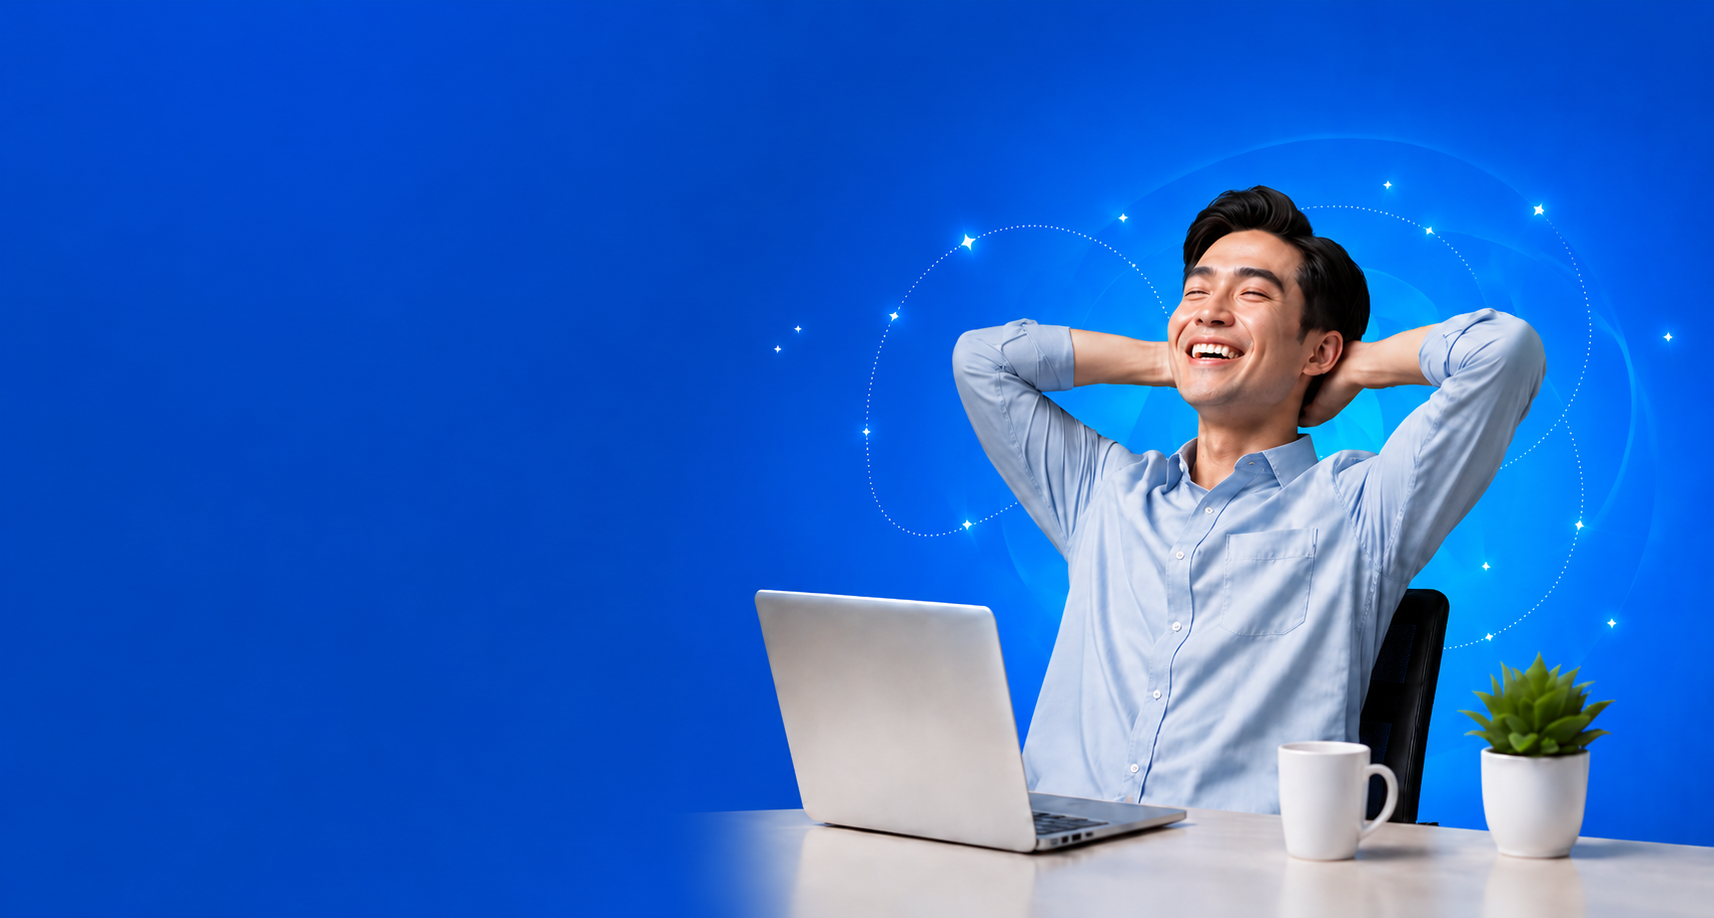
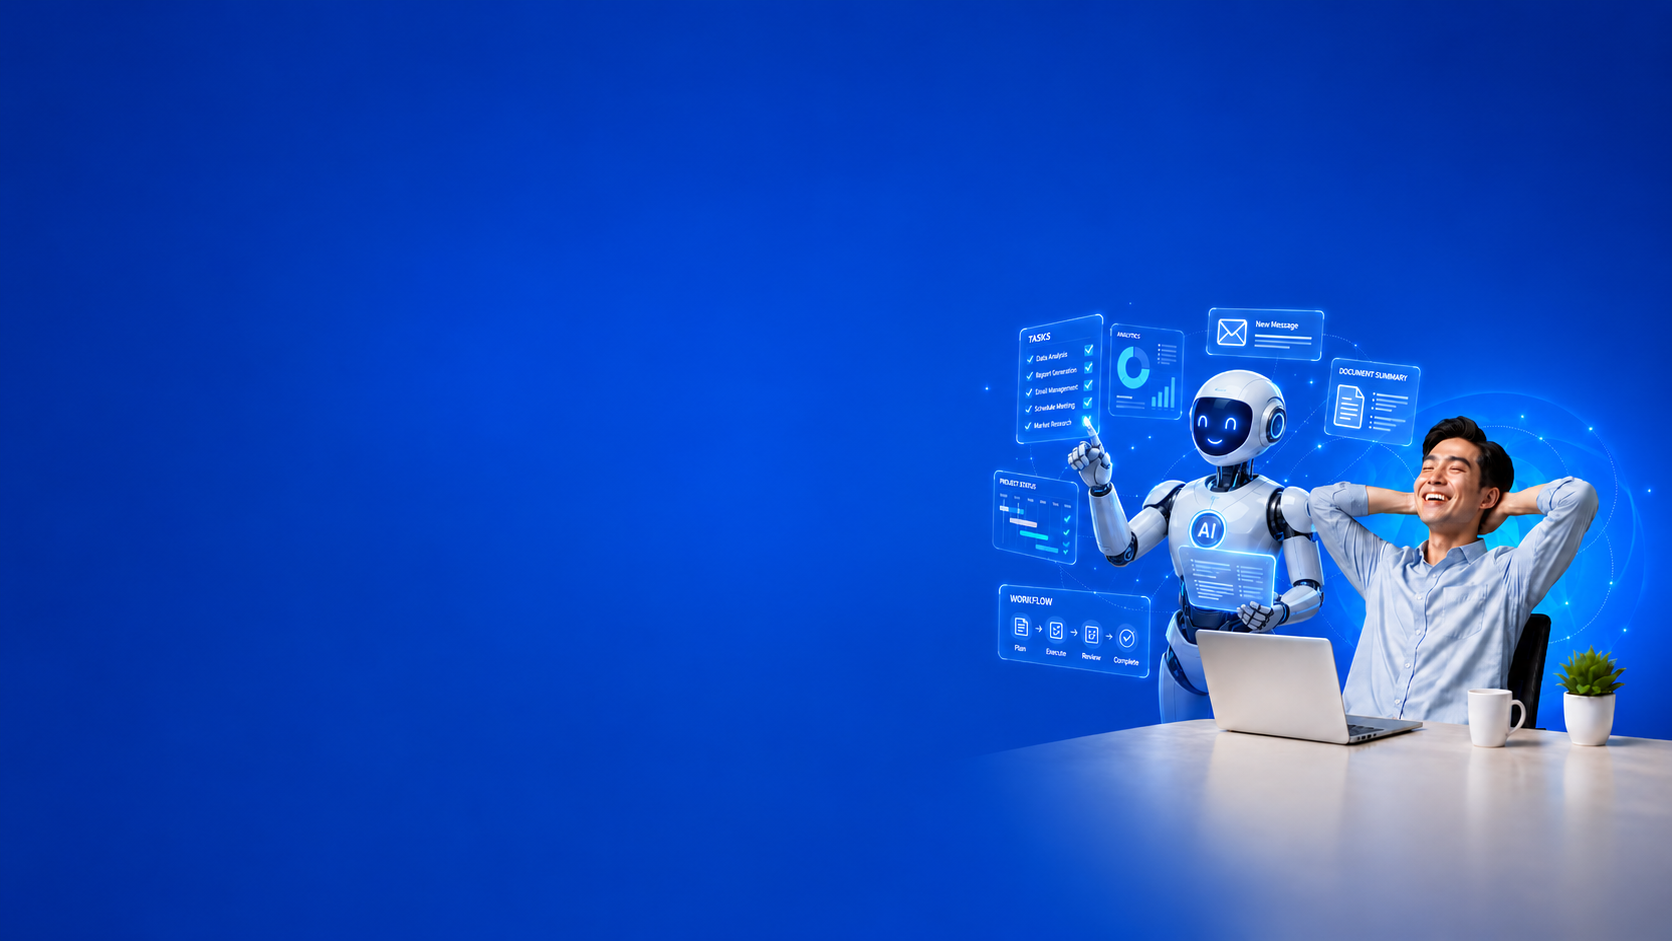
Update hero image (AI robot + man), enlarge and hide duplicate cards

diff --git a/index.html b/index.html
@@ -78,7 +78,7 @@
   /* Hero */
   .hero{position:relative;overflow:hidden;background:#1b46c7;color:#fff;padding:104px 0 88px;min-height:100vh;display:flex;align-items:center}
   .hero-bg-wrap{position:absolute;inset:0;z-index:0}
-  .hero-bg-wrap img{width:100%;height:100%;object-fit:cover;object-position:right center;display:block}
+  .hero-bg-wrap img{width:100%;height:100%;object-fit:cover;object-position:right bottom;display:block;transform:scale(1.22);transform-origin:right bottom}
   .hero-bg-wrap::before{content:"";position:absolute;inset:0;background:linear-gradient(to right,#15368f 0%,#173fa0 26%,rgba(23,63,160,.28) 50%,rgba(23,63,160,0) 66%)}
   .hero .container{position:relative;z-index:1}
   .hero-copy{max-width:560px;text-align:left}
@@ -91,7 +91,7 @@
   .hf-ic{width:48px;height:48px;border-radius:50%;border:1px solid rgba(255,255,255,.3);background:rgba(255,255,255,.08);display:grid;place-items:center;font-size:1.25rem}
 
   /* Floating notification cards */
-  .fcard{position:absolute;z-index:2;max-width:255px;animation:floatY 5s ease-in-out infinite;animation-delay:1.2s;will-change:transform}
+  .fcard{display:none;position:absolute;z-index:2;max-width:255px;animation:floatY 5s ease-in-out infinite;animation-delay:1.2s;will-change:transform}
   .fc-pop{background:#fff;color:var(--ink);border-radius:16px;padding:13px 16px;box-shadow:0 20px 44px -14px rgba(0,0,0,.45);display:flex;align-items:center;gap:12px;font-size:.9rem;font-weight:700;line-height:1.25;opacity:0;transform:translateY(16px) scale(.82);animation:popIn .7s cubic-bezier(.18,1.12,.45,1) forwards}
   .fc-pop .fi{width:40px;height:40px;border-radius:10px;display:grid;place-items:center;font-size:1.1rem;flex-shrink:0}
   .fi-blue{background:#dbeafe;color:#2563eb}
